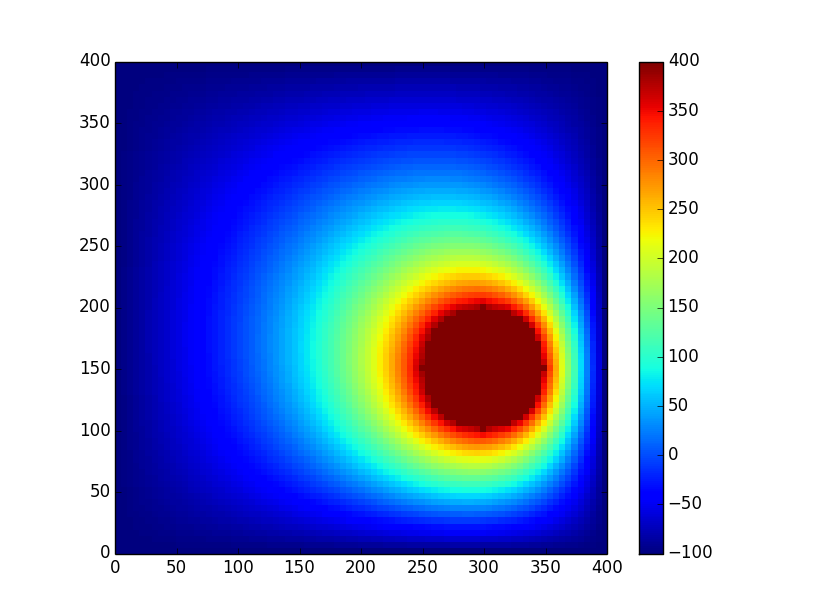
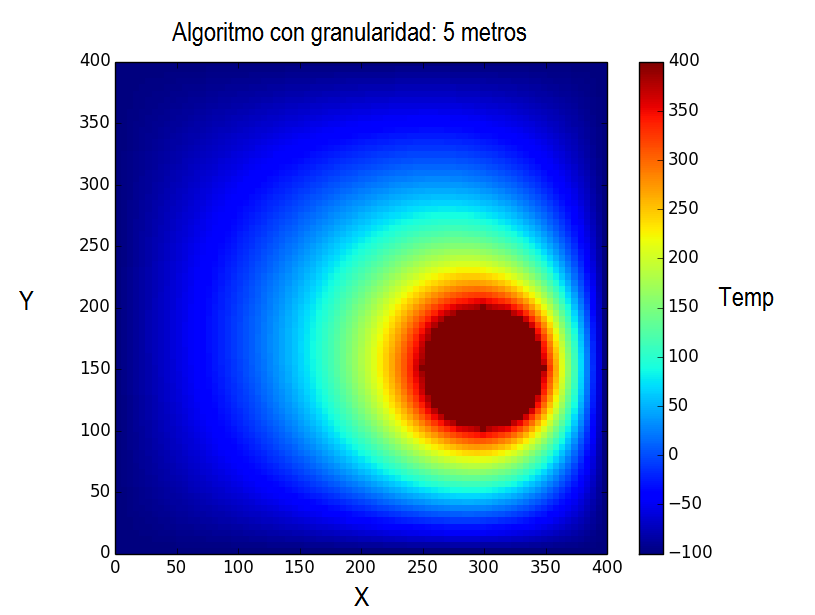
agregado de algunas imagenes en el informe.
modificacion imagenes para que tengan labels

diff --git a/trunk/tp1-mn/src/informe/informe.tex b/trunk/tp1-mn/src/informe/informe.tex
@@ -311,6 +311,69 @@ Nos queda entonces este simple pseudocódigo para resolver el problema propuesto
 
 \subsection{Experimentación}
 
+	En esta sección utilizaremos distintos gráficos para detallar los experimentos realizados. 
+
+	Utilizamos gráficos de temperatura para validar el funcionamiento de nuestro algoritmo heurístico de eliminación de sanguijuelas. A continuación vemos el resultado del algoritmo sin eliminación, y posteriormente, el resultado con ella.
+
+	\begin{center}
+		\includegraphics[width=\textwidth]{./img/test5_sinkill.png}
+	\end{center}
+
+	\begin{center}
+		\includegraphics[width=\textwidth]{./img/test5_conkill.png}
+	\end{center}
+
+	Como ya mencionamos, la heurística consta de eliminar las sanguijuelas más cercanas al centro del parabrisas hasta que el punto crítico sea menor al umbral. En este ejemplo, se eliminaron 3 sanguijueals para lograr el objetivo.
+
+	Este algoritmo posee como caso borde que las sanguijuelas se encuentren equidistantes con el centro del parabrisa. Los siguientes dos gráficos muestras el algoritmo sin y con eliminación respectivamente. La desición sobre qué sanguijuela eliminar es arbitraria y depende de cómo fue instanciado.
+
+	\begin{center}
+		\includegraphics[width=\textwidth]{./img/test6_sinkill.png}
+	\end{center}
+
+	\begin{center}
+		\includegraphics[width=\textwidth]{./img/test6_conkill.png}
+	\end{center}
+
+	En nuestro caso, la sanguijuela izquierda fue eliminada.
+
+	Cabe destacar que no siempre el resultado es el óptimo, es decir, no siempre se minimiza la cantidad de sanguijuelas removidas. Si tenemos un caso donde las sanguijuelas están equidistantes al centro del parabrisa, no se contabiliza en la desición de remoción la distancía al borde del parabrisa. El frió que emana de los bordes influye significativamente en el impacto que la sanguijuela tiene en el centro.
+
+	Los tests anteriores poseen granularidad fija. Para vislumbrar cuál es el impacto de modificarla, utilizaremos nuevamente gráficos de temperatura. En todos los gráficos fijamos el tamaño del parabrisa (400 metros por 400 metros), la cantidad de sanguijuelas (una); y su temperatura (400 grados).
+
+	\begin{center}
+		\includegraphics[width=\textwidth]{./img/granularidad/g50_t400_sinkill.png}
+	\end{center}
+
+	El valor de temperatura en cada cuadrado de 50 x 50 es marcado, la diferencia entre bloques contiguos es muy alta. Es difícil distinguir a la sanguijuela ya que su forma no es circular.
+
+	\begin{center}
+		\includegraphics[width=\textwidth]{./img/granularidad/g20_t400_sinkill.png}
+	\end{center}
+
+	La sanguijuela comienza a identificarse y se forman anillos con temperaturas decrecientes alrededor de ella. La distribución de la temperatura parece más homogénea.
+
+	\begin{center}
+		\includegraphics[width=\textwidth]{./img/granularidad/g5_t400_sinkill.png}
+	\end{center}
+
+	El círculo de la sanguijuela ahora sí es completamente distinguible. Exceptuando los valores saturados, la temperatura a nivel global (y en el centro del parabrisas) parece aumentar. Esto puede deberse a que al tener una mayor granularidad, el algoritmo puede dispersar mejor el calor, ajustándose mejor a la realidad.
+
+	\begin{center}
+		\includegraphics[width=\textwidth]{./img/granularidad/g1_t400_sinkill.png}
+	\end{center}
+
+	La buena resolución de este gráfico permite tener una apreciación detallada sobre la dispersión de calor. Contribuye a la hipótesis: "Cuando más resolución, mejor dispersión de calor". Sin embargo, como se verá más adelante en este trabajo, existe una estrecha relación entre tiempo de cómputo y presición de los resultados. 
+
+	Veamos entonces cómo cambia la temperatura en el punto central a medida que se modifica la granularidad.
+
+
+	PONER GRAFICO DE TEMPERATURA EN PUNTO CENTRAL A MEDIDA QUE CAMBIA GRANULARIDAD
+	PONER GRAFICO DE TEMPERATURA EN PUNTO CENTRAL A MEDIDA QUE CAMBIA GRANULARIDAD
+	PONER GRAFICO DE TEMPERATURA EN PUNTO CENTRAL A MEDIDA QUE CAMBIA GRANULARIDAD
+	PONER GRAFICO DE TEMPERATURA EN PUNTO CENTRAL A MEDIDA QUE CAMBIA GRANULARIDAD
+	PONER GRAFICO DE TEMPERATURA EN PUNTO CENTRAL A MEDIDA QUE CAMBIA GRANULARIDAD	PONER GRAFICO DE TEMPERATURA EN PUNTO CENTRAL A MEDIDA QUE CAMBIA GRANULARIDAD
+
 \section{Conclusión}
 
 \section{Apéndice}
